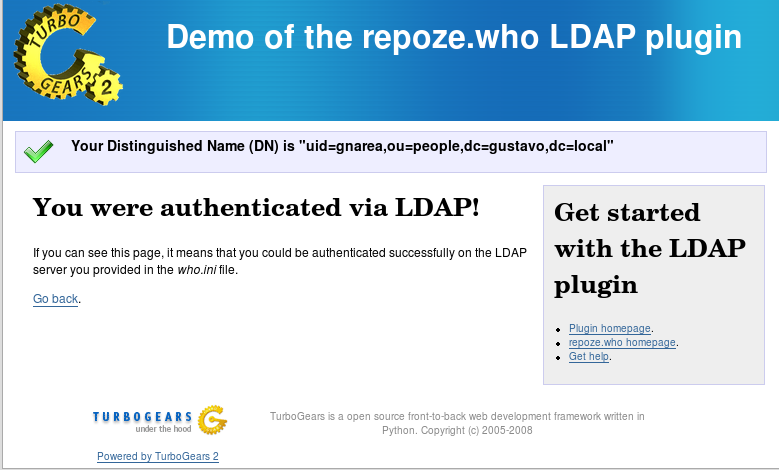
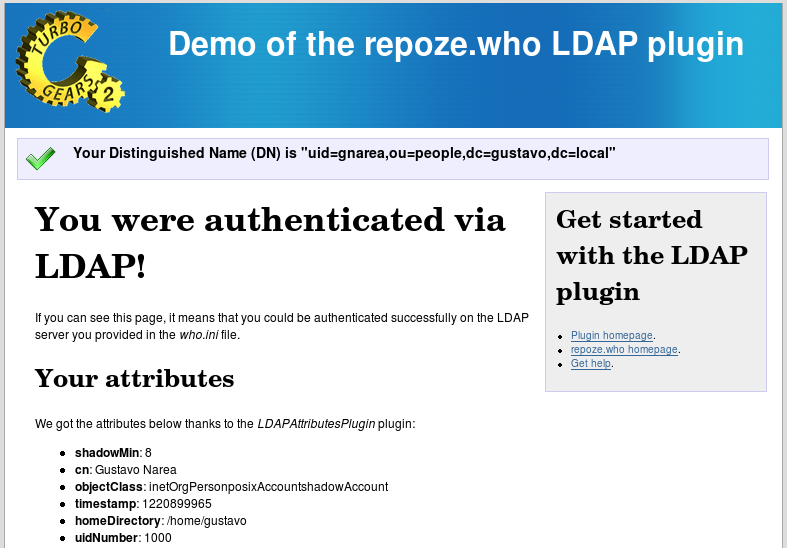
Updated the documentation to include the new metadata plugin

Changed region(s): [[0.0, 0.0, 1.0, 1.0]]

diff --git a/docs/source/Using.rst b/docs/source/Using.rst
@@ -163,11 +163,8 @@ on how to implement `repoze.who` in the framework you are using:
 Using the LDAP plugins for repoze.who
 =====================================
 
-Once you've setup `repoze.who`, you're ready to use its LDAP plugins. Below
+Once you've setup `repoze.who`, you'll be ready to use its LDAP plugins. Below
 you will find how to use them in your application.
-
-The LDAP Authenticator
-~~~~~~~~~~~~~~~~~~~~~~
 
 .. module:: repoze.who.plugins.ldap
 
@@ -175,8 +172,8 @@ The LDAP Authenticator
 
     This is the main plugin. It's in charge of the LDAP authentication itself
     using the LDAP connection object provided in the constructor
-    (**ldap_connection**) — which can be an LDAP URL or an `ldap.LDAPObject`
-    instance.
+    (**ldap_connection**) — which can be an LDAP URL or an
+    `ldap.ldapobject.SimpleLDAPObject` instance.
     
     It connects to the specified LDAP server and tries to `bind` with the
     `Distinguished Name` (DN) made by joining the `login` in the `identity`
@@ -192,41 +189,66 @@ The LDAP Authenticator
     defines the `login` and `password` items in the `identity` dictionary (the
     `identifier plugins` provided by the built-in `repoze.who.plugins.form`
     plugin are some of them).
-    
-    You may change the way the DN is created by subclassing
-    :class:`LDAPAuthenticatorPlugin` to override the *_get_dn* method. For
-    example, say in your company (with `dc=yourcompany,dc.com` as its DN)
-    everybody belongs to the `Organizational Unit` (OU) **employees**
-    (`ou=employees`), except the shareholders who belong to the OU
-    **shareholders** (`ou=shareholders`)::
-    
-        class YourCompanyLDAPAuthenticatorPlugin(LDAPAuthenticatorPlugin):
-            """Sample LDAP authenticator adapted to your company."""
-            
-            shareholders = ('lgarcia, 'mferreira', 'cnarea')
-            """Set of shareholders of the company"""
-            
-            def _get_dn(self, environ, identity):
-                try:
-                    if identity['login'] in self.shareholders:
-                        ou = 'shareholders'
-                    else:
-                        ou = 'employees'
-                    return u'uid=%s,ou=%s,%s' % (identity['login'], ou,
-                                                 self.base_dn)
-                except (KeyError, TypeError):
-                    raise ValueError, ('Could not find the DN from the identity '
-                                       'and environment')
 
-    It is possibly an useless example on how to customize the way the DN is
-    found, but it's enough to show how to override it.
+.. class:: LDAPAttributesPlugin(ldap_connection[, attributes=None[, filterstr='(objectClass=*)']])
+
+    This plugin enables you to load data for the authenticated user 
+    automatically and have it available from the WSGI environment — in the
+    `identity` dictionary, specifically.
     
-    This is a highly customizable plugin which can be adapted to your needs with
-    no hassle. You could also include in the login form a `select` field for
-    people to select the department they belong to, being the key of such
-    departments the `Organizational Unit` in the LDAP server; then, in the
-    **_get_dn** method you would get such value from the WSGI environment
-    object (**environ**).
+    **ldap_connection** represents the connection to the LDAP server, which,
+    as in :class:`LDAPAuthenticatorPlugin`, can be either an LDAP URL or an
+    instance of `ldap.ldapobject.SimpleLDAPObject`. **attributes** represents
+    the list of user's attributes that you would like to fetch from the LDAP
+    server; it can be an iterable, an string where the attributes are separated
+    by commas, or *None* to fetch all the available attributes.
+    
+    By default it loads the attributes available for *any* entry whose *DN* is
+    the same as the one found by :class:`LDAPAuthenticatorPlugin`, which is
+    desired in most situations. However, if you would like to exclude some
+    entries, you may setup a filter by means of the **filterstr** parameter,
+    which is an string whose format is defined by `RFC 4515 - Lightweight 
+    Directory Access Protocol (LDAP): String Representation of Search Filters
+    <http://www.faqs.org/rfcs/rfc4515.html>`_.
+
+
+The LDAP Authenticator
+~~~~~~~~~~~~~~~~~~~~~~
+
+It is a highly customizable plugin which can be adapted to your needs with
+no hassle. You could also include in the login form a `select` field for
+people to select the department they belong to, being the key of such
+departments the `Organizational Unit` in the LDAP server; then, in the
+**_get_dn** method you would get such value from the WSGI environment
+object (**environ**).
+
+You may change the way the DN is created by subclassing
+:class:`LDAPAuthenticatorPlugin` to override the *_get_dn* method. For
+example, say in your company (with `dc=yourcompany,dc.com` as its DN)
+everybody belongs to the `Organizational Unit` (OU) **employees**
+(`ou=employees`), except the shareholders who belong to the OU
+**shareholders** (`ou=shareholders`)::
+
+    class YourCompanyLDAPAuthenticatorPlugin(LDAPAuthenticatorPlugin):
+        """Sample LDAP authenticator adapted to your company."""
+        
+        shareholders = ('lgarcia, 'mferreira', 'cnarea')
+        """Set of shareholders of the company"""
+        
+        def _get_dn(self, environ, identity):
+            try:
+                if identity['login'] in self.shareholders:
+                    ou = 'shareholders'
+                else:
+                    ou = 'employees'
+                return u'uid=%s,ou=%s,%s' % (identity['login'], ou,
+                                             self.base_dn)
+            except (KeyError, TypeError):
+                raise ValueError, ('Could not find the DN from the identity '
+                                   'and environment')
+
+It is possibly an useless example on how to customize the way the DN is
+found, but it's enough to show how to override it.
 
 
 Configuring :class:`LDAPAuthenticatorPlugin` from an INI file
@@ -271,3 +293,51 @@ Finally, add this authenticator to the set of authenticators::
     authenticators = [('ldap_auth', ldap_auth)]
 
 As in the example above.
+
+
+The LDAP attribute loader
+~~~~~~~~~~~~~~~~~~~~~~~~~
+
+There is no advanced usage for this plugin, and hopefully you would never need
+to subclass it to suit your needs.
+
+Below you will learn how to use it.
+
+
+Configuring :class:`LDAPAttributesPlugin` from an INI file
+-------------------------------------------------------------
+
+To configure this plugin from an INI file, you'd have to include a section like
+this::
+
+    [plugin:ldap_attributes]
+    use = repoze.who.plugins.ldap:LDAPAttributesPlugin
+    ldap_connection = ldap://ldap.yourcompany.com
+    attributes = cn,sn,mail
+
+If instead of loading the *Common Name*, *surname* and *email*, as with the
+settings above, you'd prefer to load all the available attributes for the
+authenticated user, you'd just have to remove the *attributes* directive.
+
+Finally, add the plugin to the set of metadata providers::
+
+    [mdproviders]
+    plugins =
+            ldap_attributes
+
+
+Configuring :class:`LDAPAttributesPlugin` from Python code
+-------------------------------------------------------------
+
+If you want to configure it via Python code, you can use the code below::
+
+    ldap_attributes = LDAPAttributesPlugin('ldap://ldap.yourcompany.com',
+                                           ['cn', 'sn', 'email'])
+
+Again, if you would prefer to load all the available attributes for the user,
+you just have to remove the second parameter.
+
+Finally, add this authenticator to the set of metadata providers in your Python
+code::
+
+    mdproviders = [('ldap_attributes', ldap_attributes)]

diff --git a/docs/source/Demo.rst b/docs/source/Demo.rst
@@ -92,3 +92,9 @@ code below, for example::
 
     from pylons import request
     dn = request.environ['repoze.who.identity']['repoze.who.userid']
+
+This demo also features the :class:`LDAPAttributesPlugin` metadata provider,
+which is used in the private page to show all the available LDAP attributes
+for your entry in the LDAP server you are using. Such metadata is loaded in::
+
+    request.environ['repoze.who.identity']
